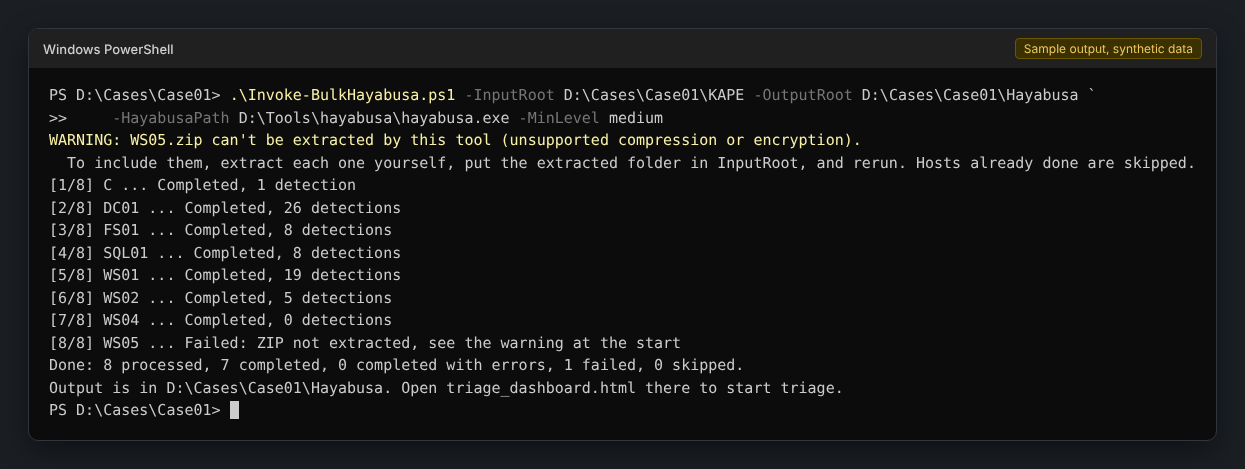
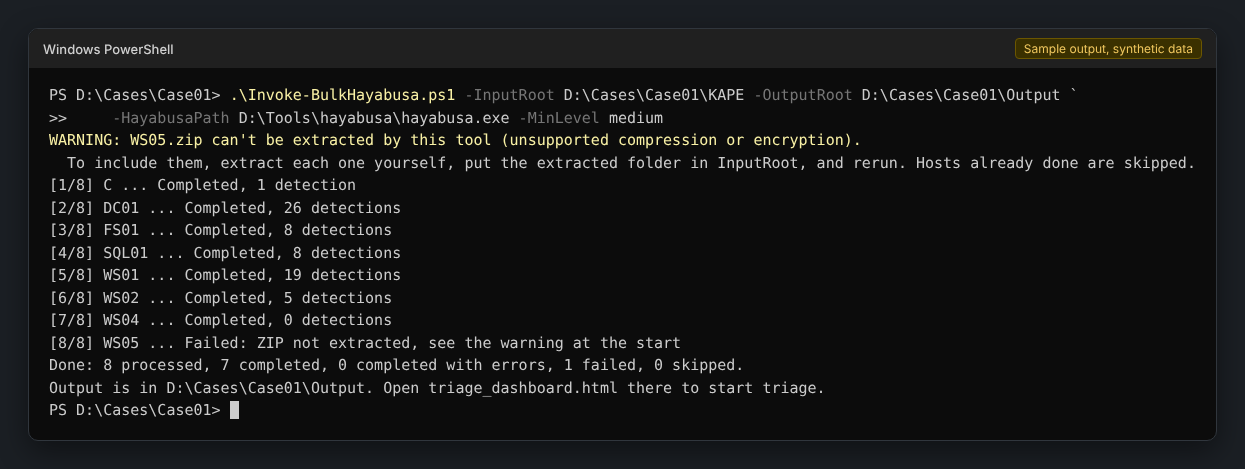
README: rename sample OutputRoot to Output, clarify ZIP limits
enames the sample OutputRoot from Hayabusa to Output across the README, the Get-Help examples and the console screenshot, so it isn't mistaken for where the Hayabusa binary lives. Spells out the ZIP limits as 100 GB uncompressed and a 250:1 ratio of extracted size to ZIP size, naming the config keys.

Changed region(s): [[0.2442, 0.806, 0.6715, 0.8657], [0.7936, 0.1791, 0.8851, 0.2388]]

diff --git a/README.md b/README.md
@@ -36,7 +36,7 @@ Keep the `lib` folder beside the two scripts, since they load everything from it
 ## Quick start
 
 ```powershell
-.\Invoke-BulkHayabusa.ps1 -InputRoot D:\Cases\Case01\KAPE -OutputRoot D:\Cases\Case01\Hayabusa -HayabusaPath D:\Tools\hayabusa\hayabusa.exe
+.\Invoke-BulkHayabusa.ps1 -InputRoot D:\Cases\Case01\KAPE -OutputRoot D:\Cases\Case01\Output -HayabusaPath D:\Tools\hayabusa\hayabusa.exe
 ```
 
 It prints one line per host as it goes, then a short summary and where to look:
@@ -44,10 +44,10 @@ It prints one line per host as it goes, then a short summary and where to look:
 ```
 [1/4] DC01 ... Completed, 12 detections
 [2/4] FS02 ... Completed, 6 detections
-WARNING: [3/4] WS03 ... Failed: Hayabusa exited with code 2. See D:\Cases\Case01\Hayabusa\WS03\WS03_hayabusa.log. No CSV was written.
+WARNING: [3/4] WS03 ... Failed: Hayabusa exited with code 2. See D:\Cases\Case01\Output\WS03\WS03_hayabusa.log. No CSV was written.
 [4/4] WS04 ... skipped, already Completed
 Done: 3 processed, 2 completed, 0 completed with errors, 1 failed, 1 skipped.
-Output is in D:\Cases\Case01\Hayabusa. Open triage_dashboard.html there to start triage.
+Output is in D:\Cases\Case01\Output. Open triage_dashboard.html there to start triage.
 ```
 
 Add `-Verbose` for more detail. `-InformationAction SilentlyContinue` hides the progress lines and leaves only warnings.
@@ -61,7 +61,7 @@ Set-ExecutionPolicy -Scope Process -ExecutionPolicy Bypass
 With an engagement config and a lower severity floor:
 
 ```powershell
-.\Invoke-BulkHayabusa.ps1 -InputRoot D:\Cases\Case01\KAPE -OutputRoot D:\Cases\Case01\Hayabusa `
+.\Invoke-BulkHayabusa.ps1 -InputRoot D:\Cases\Case01\KAPE -OutputRoot D:\Cases\Case01\Output `
     -HayabusaPath D:\Tools\hayabusa\hayabusa.exe -ConfigPath D:\Cases\Case01\engagement.psd1 -MinLevel medium
 ```
 
@@ -73,22 +73,22 @@ Each of these is a complete command. Copy one and change the paths:
 
 ```powershell
 # Default triage run, floor at high. Start here on a new case.
-.\Invoke-BulkHayabusa.ps1 -InputRoot D:\Cases\Case01\KAPE -OutputRoot D:\Cases\Case01\Hayabusa -HayabusaPath D:\Tools\hayabusa\hayabusa.exe
+.\Invoke-BulkHayabusa.ps1 -InputRoot D:\Cases\Case01\KAPE -OutputRoot D:\Cases\Case01\Output -HayabusaPath D:\Tools\hayabusa\hayabusa.exe
 
 # Broader sweep, medium and up, when high is too narrow.
-.\Invoke-BulkHayabusa.ps1 -InputRoot D:\Cases\Case01\KAPE -OutputRoot D:\Cases\Case01\Hayabusa -HayabusaPath D:\Tools\hayabusa\hayabusa.exe -MinLevel medium
+.\Invoke-BulkHayabusa.ps1 -InputRoot D:\Cases\Case01\KAPE -OutputRoot D:\Cases\Case01\Output -HayabusaPath D:\Tools\hayabusa\hayabusa.exe -MinLevel medium
 
 # Cap Hayabusa at two threads, on a box that's busy with other work.
-.\Invoke-BulkHayabusa.ps1 -InputRoot D:\Cases\Case01\KAPE -OutputRoot D:\Cases\Case01\Hayabusa -HayabusaPath D:\Tools\hayabusa\hayabusa.exe -Threads 2
+.\Invoke-BulkHayabusa.ps1 -InputRoot D:\Cases\Case01\KAPE -OutputRoot D:\Cases\Case01\Output -HayabusaPath D:\Tools\hayabusa\hayabusa.exe -Threads 2
 
 # Rerun every host, finished ones included, after fixing something such as the rules.
-.\Invoke-BulkHayabusa.ps1 -InputRoot D:\Cases\Case01\KAPE -OutputRoot D:\Cases\Case01\Hayabusa -HayabusaPath D:\Tools\hayabusa\hayabusa.exe -Force
+.\Invoke-BulkHayabusa.ps1 -InputRoot D:\Cases\Case01\KAPE -OutputRoot D:\Cases\Case01\Output -HayabusaPath D:\Tools\hayabusa\hayabusa.exe -Force
 
 # Keep extracted ZIPs and differencing disks, to debug a host that failed.
-.\Invoke-BulkHayabusa.ps1 -InputRoot D:\Cases\Case01\KAPE -OutputRoot D:\Cases\Case01\Hayabusa -HayabusaPath D:\Tools\hayabusa\hayabusa.exe -KeepArtifacts
+.\Invoke-BulkHayabusa.ps1 -InputRoot D:\Cases\Case01\KAPE -OutputRoot D:\Cases\Case01\Output -HayabusaPath D:\Tools\hayabusa\hayabusa.exe -KeepArtifacts
 
 # Engagement settings from a config: ExactLevel, tag filters, a time window and the output profile live there.
-.\Invoke-BulkHayabusa.ps1 -InputRoot D:\Cases\Case01\KAPE -OutputRoot D:\Cases\Case01\Hayabusa -HayabusaPath D:\Tools\hayabusa\hayabusa.exe -ConfigPath D:\Cases\Case01\engagement.psd1
+.\Invoke-BulkHayabusa.ps1 -InputRoot D:\Cases\Case01\KAPE -OutputRoot D:\Cases\Case01\Output -HayabusaPath D:\Tools\hayabusa\hayabusa.exe -ConfigPath D:\Cases\Case01\engagement.psd1
 ```
 
 `-MinLevel` takes any of the six levels, informational, low, medium, high (the default), critical or emergency, and means that level and up.
@@ -115,7 +115,7 @@ Give each case one folder, and keep its OutputRoot in the same place for the lif
 ```
 D:\Cases\Case01\
   KAPE\              InputRoot: one entry per host
-  Hayabusa\          OutputRoot: every run for this case goes here
+  Output\            OutputRoot: every run for this case goes here
   engagement.psd1    the case's config, if it has one
 ```
 
@@ -175,7 +175,7 @@ The fix is to extract the ZIP with 7-Zip or similar, put the extracted folder in
 
 If the check can't make sense of a ZIP at all, or an entry name holds a character no Windows path can use, such as `|` or a control character, it's treated the same way: listed, failed, never half-extracted. A ZIP that can't be read never counts as readable.
 
-ZIPs that can be extracted are still treated as hostile. Before anything is written, every entry name is checked for path traversal and names Windows can't hold, and the declared size and compression ratio are checked against limits. The defaults are 100 GB and 250:1, and both can be changed in the engagement config. Extraction counts the bytes actually written, and stops if an entry writes more than it claimed. It also checks there's room for the extract on the OutputRoot volume, and warns if it can't tell, as on some network shares.
+ZIPs that can be extracted are still treated as hostile. Before anything is written, every entry name is checked for path traversal and names Windows can't hold, and the declared size and compression ratio are checked against limits. The defaults are 100 GB of uncompressed content and a 250:1 ratio of extracted size to ZIP size. Both are set in the engagement config, as `ZipMaxUncompressedGB` and `ZipMaxRatio`. Extraction counts the bytes actually written, and stops if an entry writes more than it claimed. It also checks there's room for the extract on the OutputRoot volume, and warns if it can't tell, as on some network shares.
 
 Deep paths are fine. KAPE output can run past Windows' 260-character path limit, for example the crash reports under `C\ProgramData\Microsoft\Windows\WER\ReportArchive`. The tool writes, lists and removes the extract through Windows' extended-length paths, so those extract like anything else. If a path still can't be created, that collection fails with a message saying so. For a long path the fix is a shorter OutputRoot, such as `D:\Out`, or extracting the ZIP yourself nearer the drive root. A single name over 255 characters can't be created anywhere on Windows, so extract that ZIP yourself with a tool that can shorten or skip the entry, then apply the same fix as above.
 
@@ -247,7 +247,7 @@ One host failing never stops the batch.
 To rebuild the triage files and dashboard from an existing OutputRoot without rerunning anything, on any machine:
 
 ```powershell
-.\Invoke-HayabusaRollup.ps1 -OutputRoot D:\Cases\Case01\Hayabusa
+.\Invoke-HayabusaRollup.ps1 -OutputRoot D:\Cases\Case01\Output
 ```
 
 ## Engagement config
